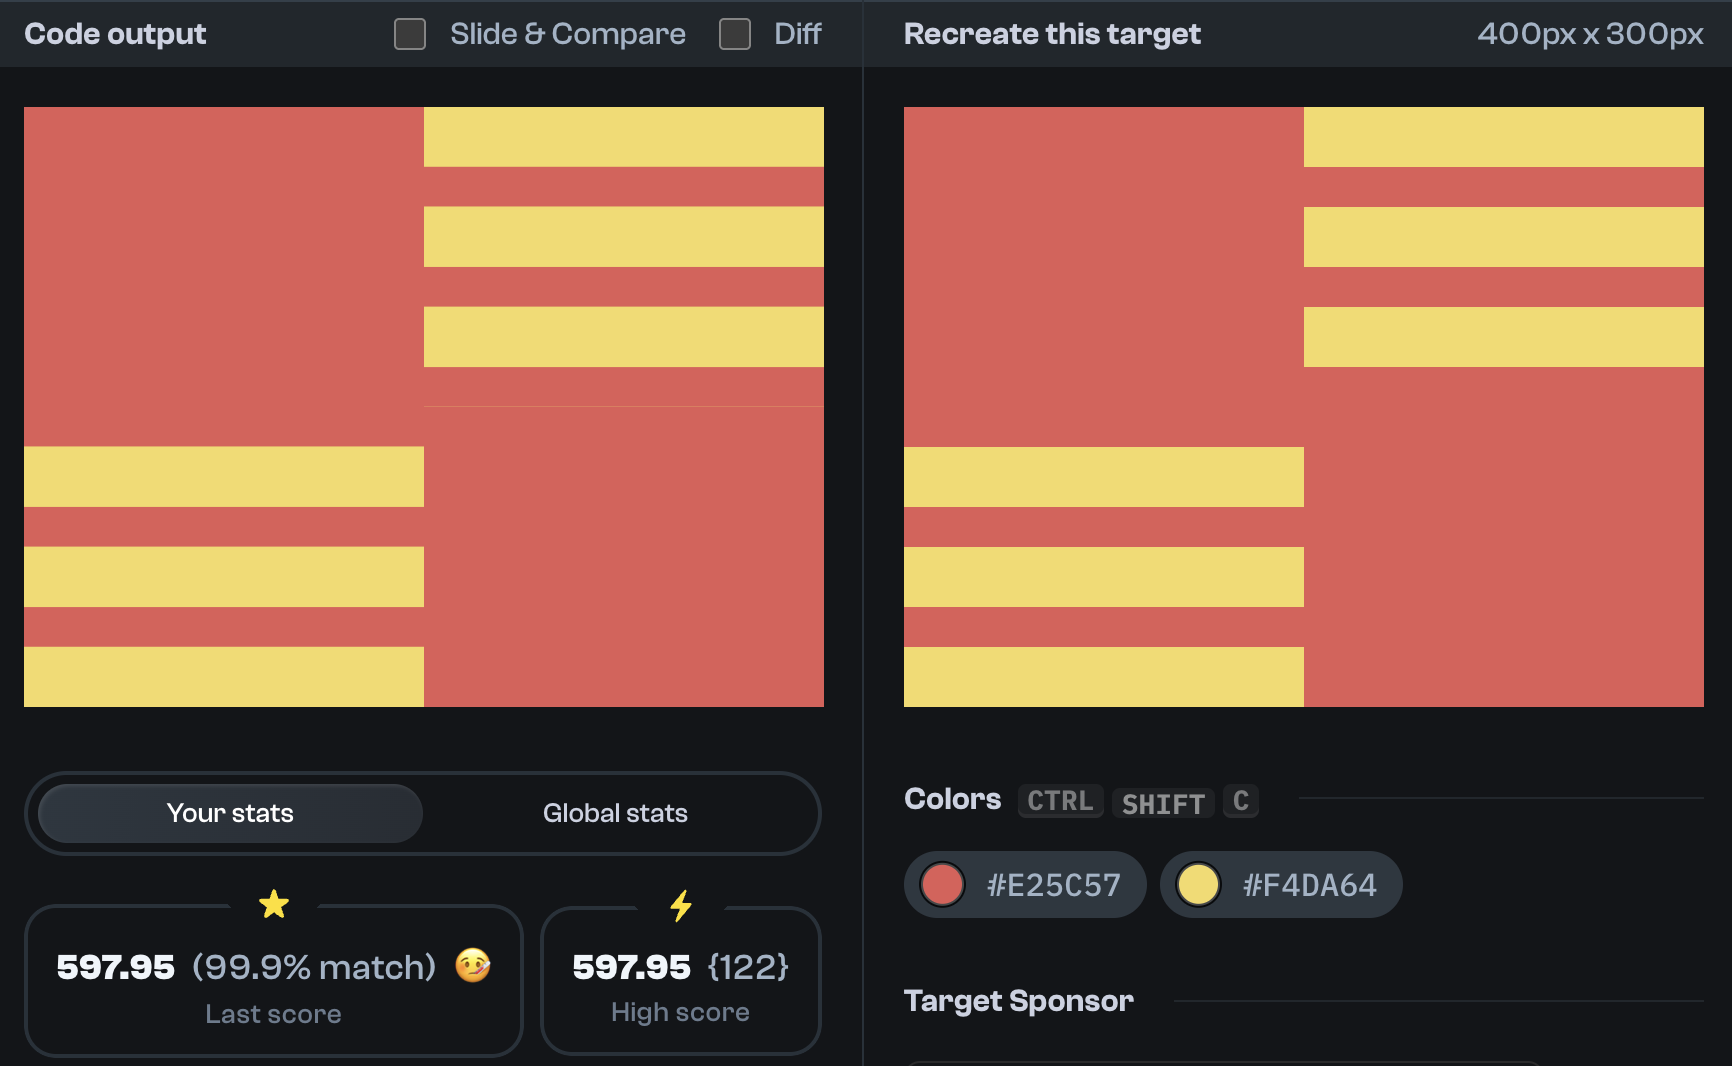
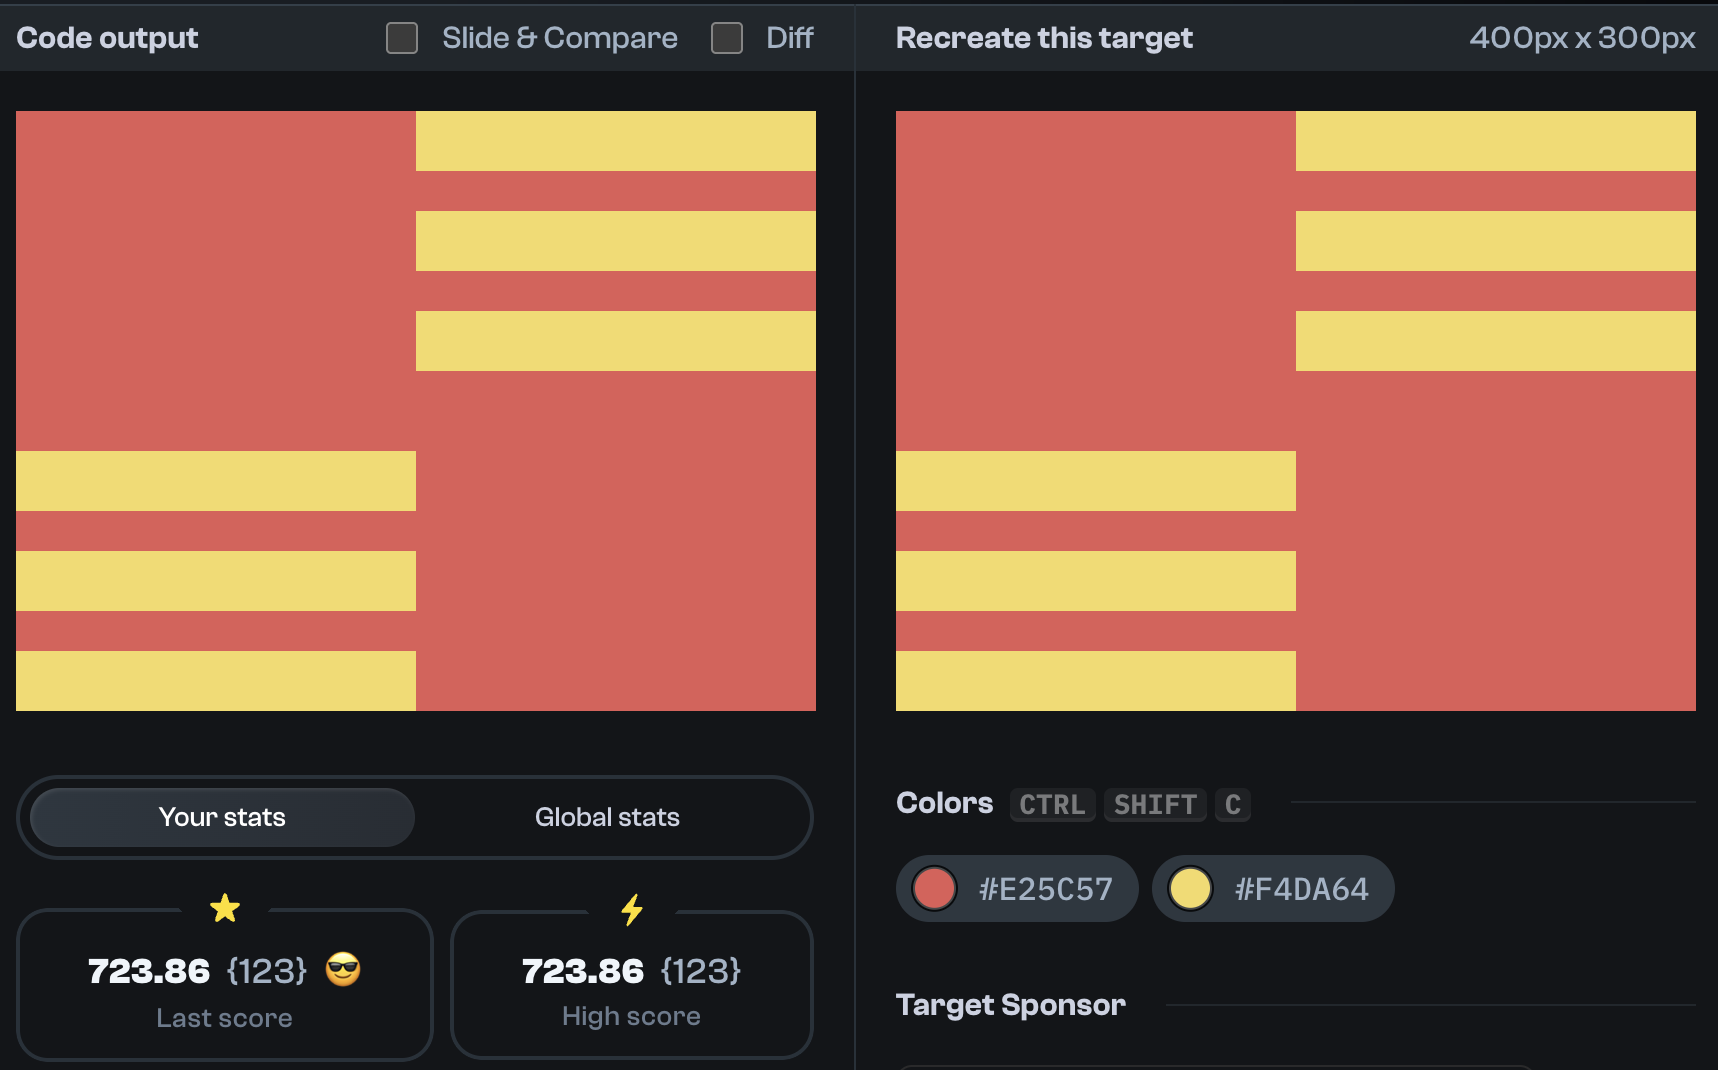
feat: CSS Battle solution for 2025-09-01

diff --git a/daily-targets/2025-09-01/solutions.html b/daily-targets/2025-09-01/solutions.html
@@ -1,3 +1,3 @@
 <!-- Version 1 -->
-<stYle>*{background:linear-GRAdient(#F4DA64 60%,#E25C57 0)0/1%53q;box-SHadow:inSet 50vw 0#E25C57;*{scale:-1;margin:150 0 0
+<stYle>*{background:linear-GRAdient(#F4DA64 60%,#E25C57 0)0/1%50px;box-SHadow:inSet 50vw 0#E25C57;*{scale:-1;margin:150 0 0
 </style>

diff --git a/daily-targets/2025-09-01/linkedin-post.md b/daily-targets/2025-09-01/linkedin-post.md
@@ -4,7 +4,7 @@
 
 Today's CSSBattle solution:
 
-Sunset Blinds.
+Sunset blinds.
 
 https://github.com/dcotelessa/cssbattle-solutions/blob/main/daily-targets/2025-09-01/solutions.html
 
